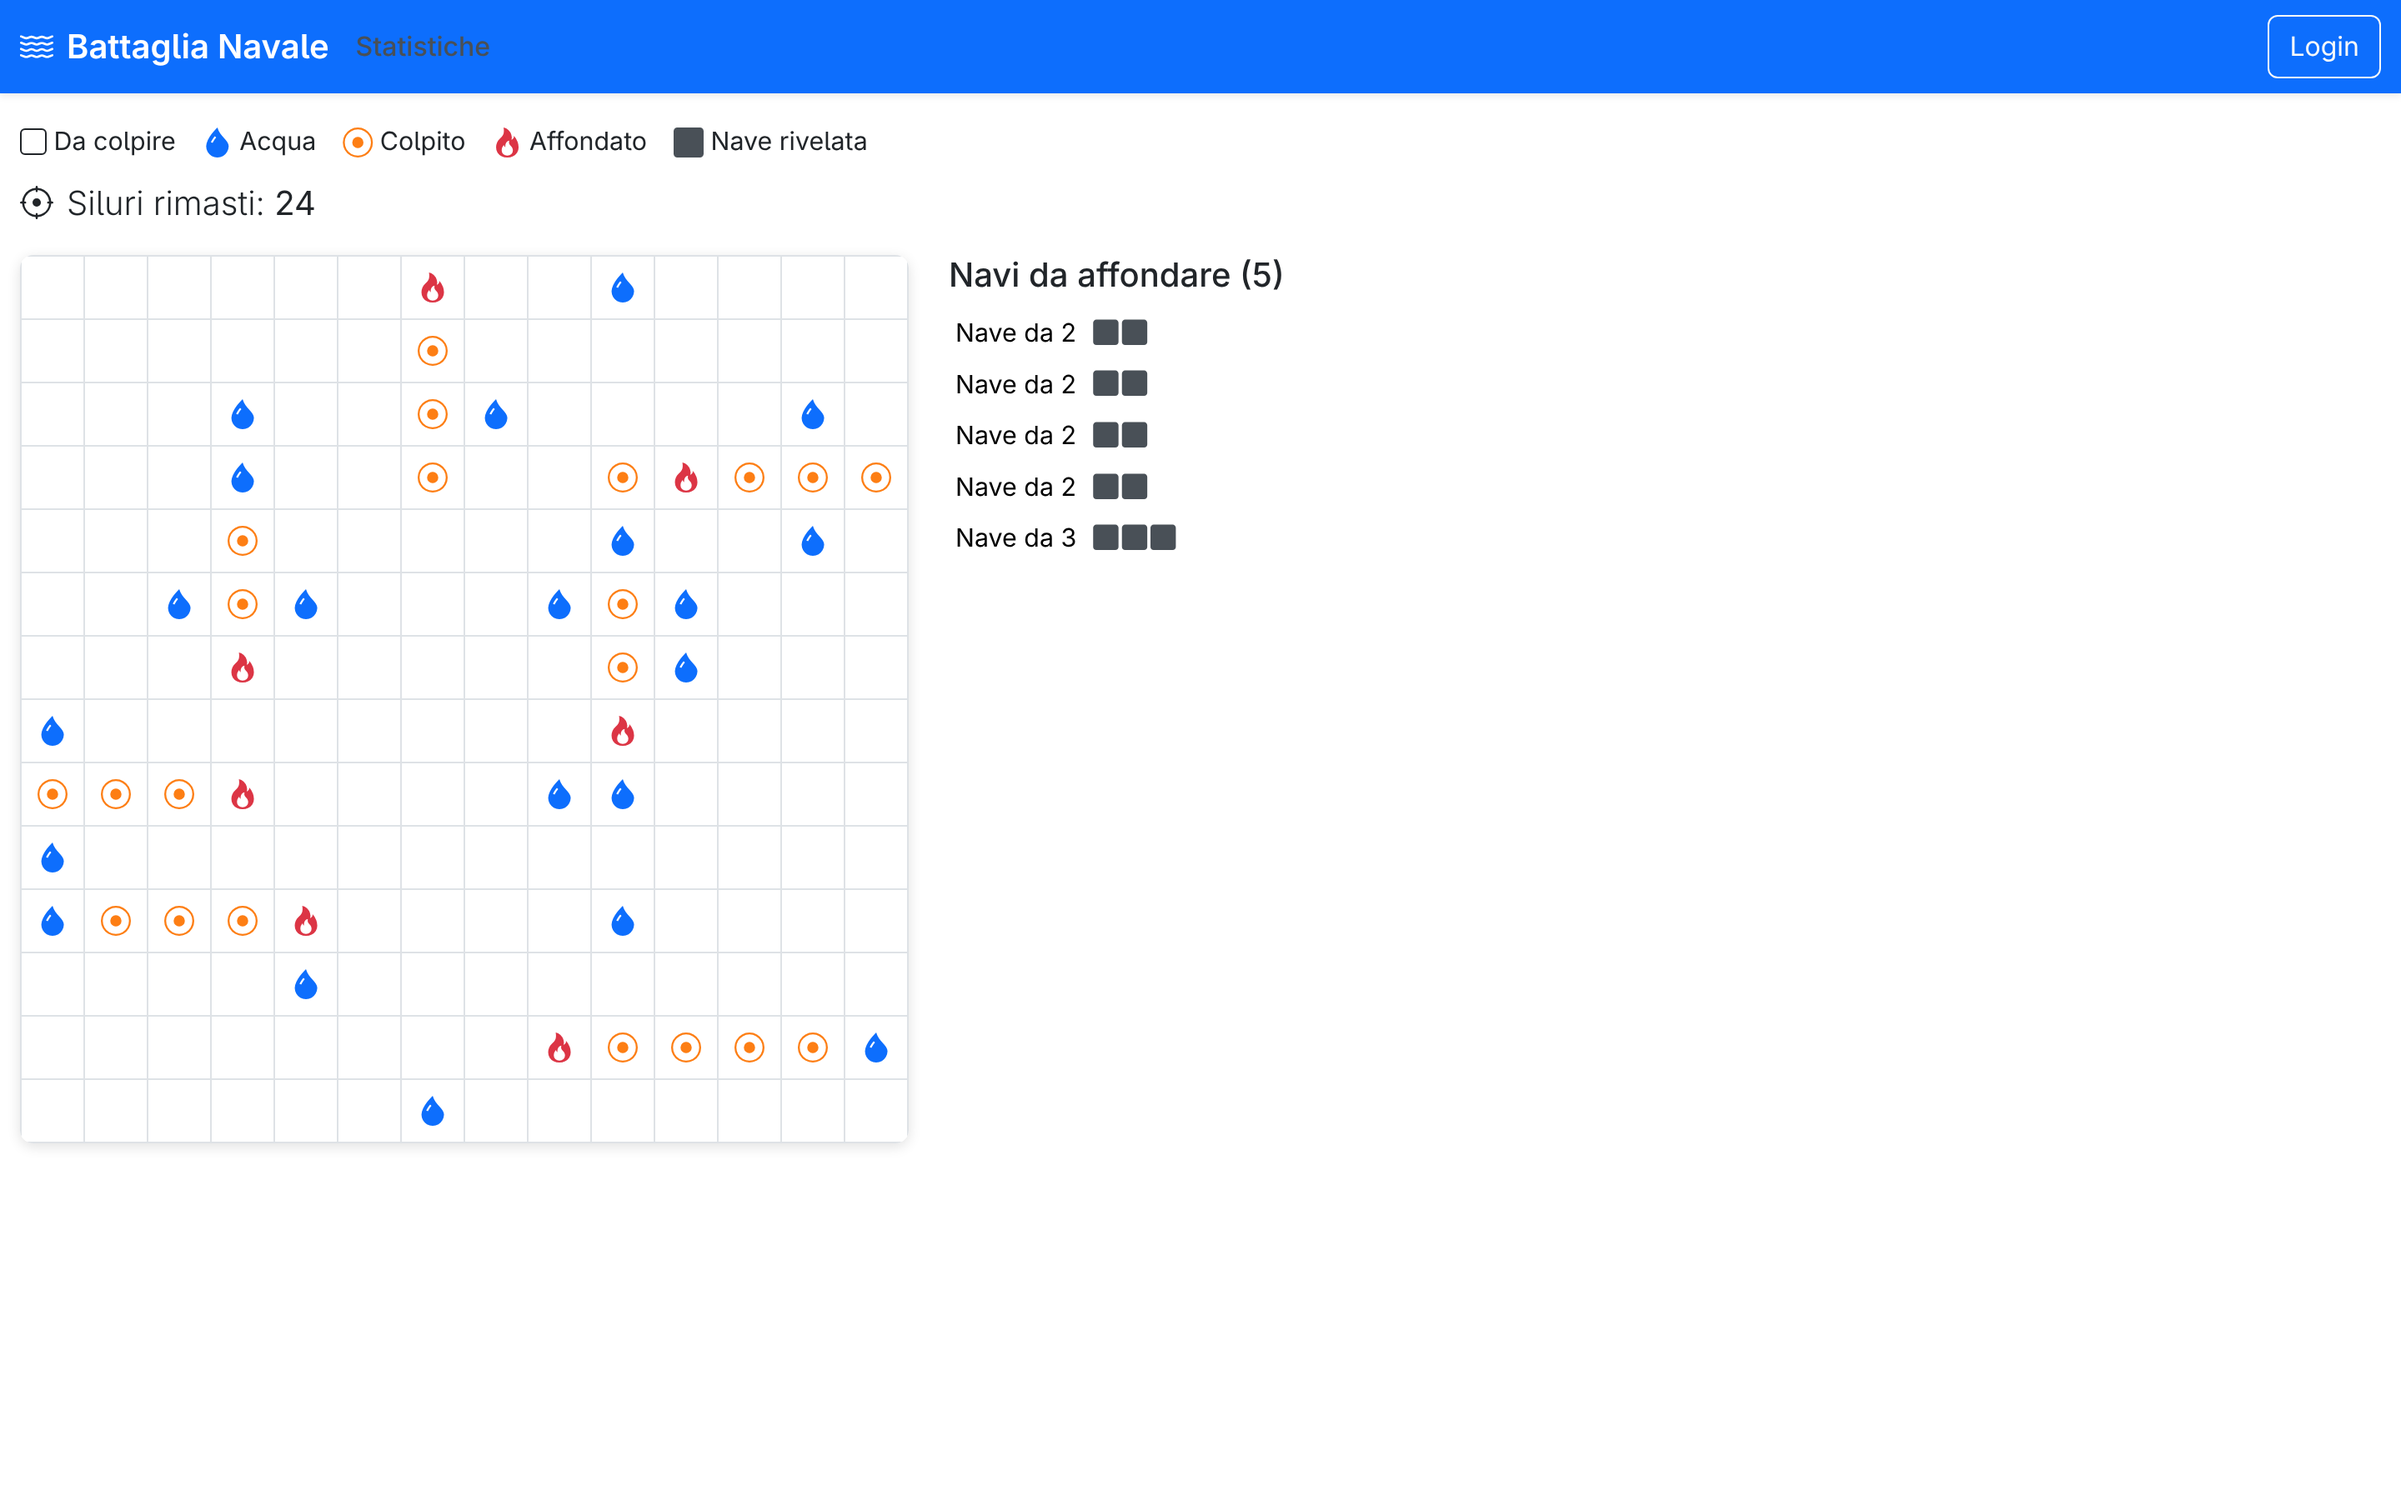
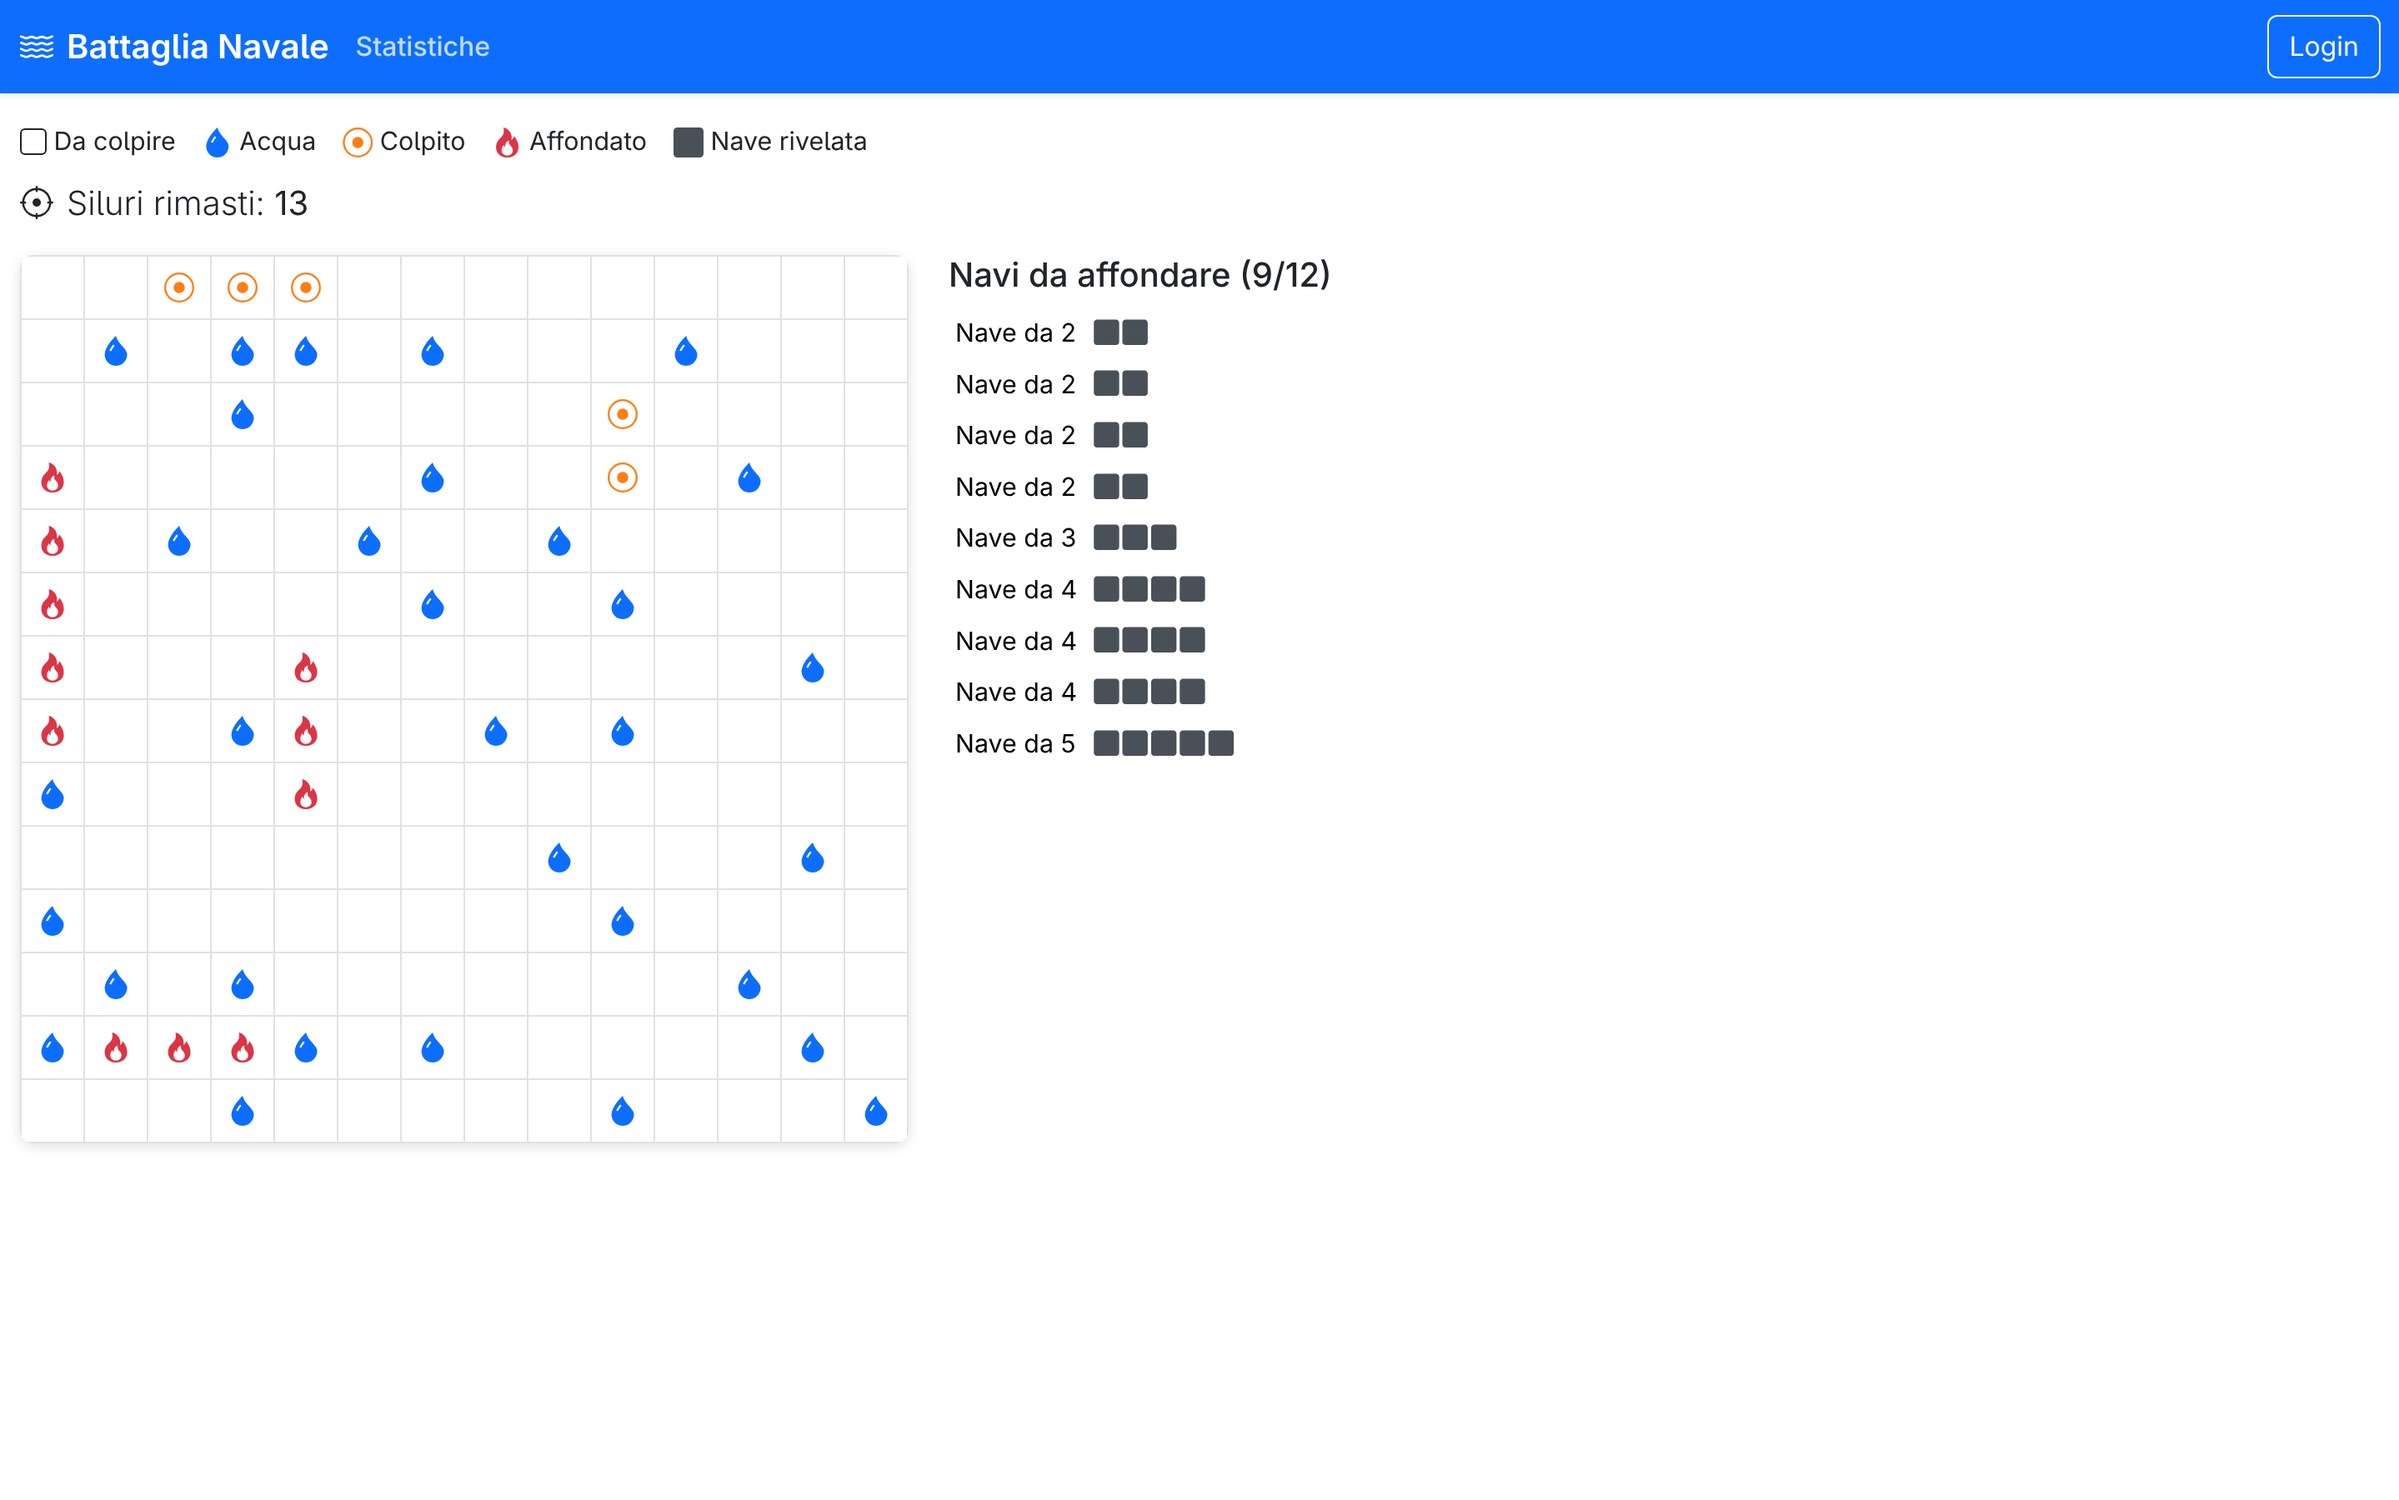
rimosso file in eccesso, riscritto la parte del readme sull'ai e sostituito lo screenshot, dato che ho aggiunto che una nave affondata deve avere tutte le icone della fiamma e non solo l'ultima colpita, aggiungendo due nuovi set hitCells per mantenere in controllo tutte le parti di navi colpite e su

diff --git a/client/src/API.js b/client/src/API.js
@@ -50,7 +50,7 @@ const createGame = async (difficulty) => {
         body: JSON.stringify({ difficulty })
     });
     if (response.ok) return mapApiGameToGame(await response.json());
-    else await throwApiError(response);
+    else await throwError(response);
 };
 
 // funzione per creare un torneo, riceve la difficoltà scelta e restituisce il codice del torneo
@@ -64,7 +64,7 @@ const createTournament = async (difficulty) => {
         body: JSON.stringify({ difficulty })
     });
     if (response.ok) return mapApiGameToGame(await response.json());
-    else await throwApiError(response);
+    else await throwError(response);
 };
 
 // funzione per partecipare a un torneo esistente, riceve il codice e crea la partita del giocatore
@@ -74,7 +74,7 @@ const joinTournament = async (code) => {
         credentials: 'include'
     });
     if (response.ok) return mapApiGameToGame(await response.json());
-    else await throwApiError(response);
+    else await throwError(response);
 };
 
 // funzione per ottenere lo stato di una partita (senza le posizioni delle navi), riceve l'id della partita
@@ -84,7 +84,7 @@ const getGame = async (id) => {
     });
     // la risposta di questa route non include l'id della partita, quindi lo si aggiunge prendendolo dall'argomento
     if (response.ok) return mapApiGameToGame({ ...await response.json(), gameId: id });
-    else await throwApiError(response);
+    else await throwError(response);
 };
 
 // funzione per lanciare un siluro, riceve l'id della partita e le coordinate della cella, restituisce l'esito
@@ -98,7 +98,7 @@ const fireShot = async (id, row, col) => {
         body: JSON.stringify({ row, col })
     });
     if (response.ok) return await response.json();
-    else await throwApiError(response);
+    else await throwError(response);
 };
 
 // funzione per ottenere le posizioni delle navi (solo a partita finita), riceve l'id della partita
@@ -107,7 +107,7 @@ const getShips = async (id) => {
         credentials: 'include'
     });
     if (response.ok) return await response.json();
-    else await throwApiError(response);
+    else await throwError(response);
 };
 
 // funzione per ottenere le statistiche pubbliche di tutti i giocatori, divise per difficoltà
@@ -115,7 +115,7 @@ const getShips = async (id) => {
 const getStats = async () => {
     const response = await fetch(SERVER_URL + '/stats');
     if (response.ok) return await response.json();
-    else await throwApiError(response);
+    else await throwError(response);
 };
 
 
@@ -133,7 +133,7 @@ function handleInvalidResponse(response) {
 // funzione per estrarre il messaggio d'errore dal corpo della risposta e lanciarlo come stringa
 // il server manda due forme di errore: quelli di validazione come { validationErrors: { campo: messaggio } },
 // tutti gli altri come { error: 'messaggio' }
-async function throwApiError(response) {
+async function throwError(response) {
     let errMessage;
     try {
         const body = await response.json();
@@ -141,7 +141,7 @@ async function throwApiError(response) {
         // altrimenti usa il messaggio contenuto in error
         errMessage = body.validationErrors ? Object.values(body.validationErrors)[0] : body.error;
     } catch {
-        // corpo non in formato json o vuoto, ripiega sul testo di stato http
+        // se il corpo non è json o è vuoto, usa come ripiego il testo standard dello stato http (es. 'Not Found' per un 404)
         errMessage = response.statusText;
     }
     throw errMessage;

diff --git a/client/src/components/GameBoard.jsx b/client/src/components/GameBoard.jsx
@@ -71,13 +71,31 @@ function GameBoard(props) {
         }
     }
 
+    // insieme delle celle delle navi già affondate, si espande da ogni tiro 'affondato'
+    // nelle celle colpite contigue, dato che le navi non sono adiacenti tra loro
+    const hitCells = new Set(game.shots.filter(s => s.result !== 'acqua').map(s => `${s.row},${s.col}`));
+    const sunkCells = new Set();
+    for (const shot of game.shots) {
+        if (shot.result === 'affondato') {
+            sunkCells.add(`${shot.row},${shot.col}`);
+            // controllo nelle 4 direzioni, se c'è una cella colpita proseguo in quella direzione
+            // finché non trovo una cella non colpita o il bordo della griglia
+            for (const [dr, dc] of [[-1, 0], [1, 0], [0, -1], [0, 1]]) {
+                let r = shot.row + dr, c = shot.col + dc;
+                while (hitCells.has(`${r},${c}`)) { sunkCells.add(`${r},${c}`); r += dr; c += dc; }
+            }
+        }
+    }
+
     // descrive una cella in base ai tiri e alle navi se sono state rivelate
     const describeCell = (row, col) => {
         const shot = game.shots.find(s => s.row === row && s.col === col);
         if (shot) {
             if (shot.result === 'acqua') return { className: 'cell cell-miss', icon: 'bi-droplet-fill' };
-            if (shot.result === 'colpito') return { className: 'cell cell-hit', icon: 'bi-record-circle' };
-            return { className: 'cell cell-sunk', icon: 'bi-fire' }; // affondato
+            // una cella colpita viene contrassegnata come 'affondato' se fa parte di una nave interamente affondata
+            if (sunkCells.has(`${row},${col}`)) return { className: 'cell cell-sunk', icon: 'bi-fire' };
+            // altrimenti viene contrassegnata come 'colpito'
+            return { className: 'cell cell-hit', icon: 'bi-record-circle' };
         }
         // cella di una nave mai colpita, mostrata solo a partita finita
         if (shipCells.has(`${row},${col}`)) return { className: 'cell cell-ship', icon: 'bi-square-fill' };
@@ -90,7 +108,7 @@ function GameBoard(props) {
 
     return (
         <>
-            {/* messaggio in cima quando la partita è finita (riquadro verde se si vince, rosso se si perde) */}
+            {/* mostra un messaggio in cima quando la partita è finita (riquadro verde se si vince, rosso se si perde) */}
             {over &&
                 <Alert variant={game.status === 'vinto' ? 'success' : 'danger'}>
                     {game.status === 'vinto'
@@ -98,7 +116,7 @@ function GameBoard(props) {
                         : 'Hai perso! Sfortunatamente hai esaurito tutti i siluri...'}
                 </Alert>
             }
-            {/* legenda delle celle */}
+            {/* legenda dei simboli usati nella griglia di gioco */}
             <div className="game-legend mb-2">
                 <span className="legend-item"><span className="legend-empty"></span> Da colpire</span>
                 <span className="legend-item"><i className="bi bi-droplet-fill legend-water"></i> Acqua</span>

diff --git a/client/src/components/ShipList.jsx b/client/src/components/ShipList.jsx
@@ -42,7 +42,7 @@ function ShipList(props) {
     const remaining = remainingSizes(props.ships, props.shots);
     return (
         <>
-            <h5>Navi da affondare ({remaining.length})</h5>
+            <h5>Navi da affondare ({remaining.length}/{props.ships.length})</h5>
             <Table borderless size="sm" className="ships-table">
                 <tbody>
                     {remaining.map((size, index) => <ShipInList key={index} size={size} />)}

diff --git a/client/src/App.jsx b/client/src/App.jsx
@@ -19,7 +19,7 @@ function App() {
   const [loggedIn, setLoggedIn] = useState(false); // indica se l'utente è loggato
   const [feedback, setFeedback] = useState(''); // memorizza il feedback da mostrare
 
-  const navigate = useNavigate();
+  const navigate = useNavigate(); // navigazione tra le route
 
   // info delle difficoltà, mostrate solo per orientare l'utente
   // la verità (posizioni, numeri esatti) resta sul server

diff --git a/README.md b/README.md
@@ -391,6 +391,6 @@ alice e bob hanno già giocato delle partite (vinte e perse). charlie non ha anc
 
 Durante lo sviluppo del progetto ho fatto un uso di uno strumento AI, che mi ha aiutato in questi tre punti:
 
-- Script per popolare il database (`db-populator.js`): mi ha aiutato a scrivere lo script che crea le tabelle e inserisce i dati iniziali (tre utenti e otto partite già giocate), in modo da poter rigenerare il database in qualsiasi momento.
+- Creazione del database: mi ha aiutato a definire lo schema delle tabelle e i dati iniziali (i tre utenti e le partite già giocate) presenti nel database consegnato.
 - Gestione della griglia di gioco (`GameBoard.jsx`): mi ha dato una mano nella parte del client che costruisce e aggiorna la griglia in base agli esiti dei tiri (acqua, colpito e affondato) e nella logica di visualizzazione.
 - Refactoring: mi ha supportato in alcune operazioni di pulizia e riorganizzazione del codice, per esempio raccogliendo porzioni ripetute in funzioni helper e uniformando lo stile del codice.
